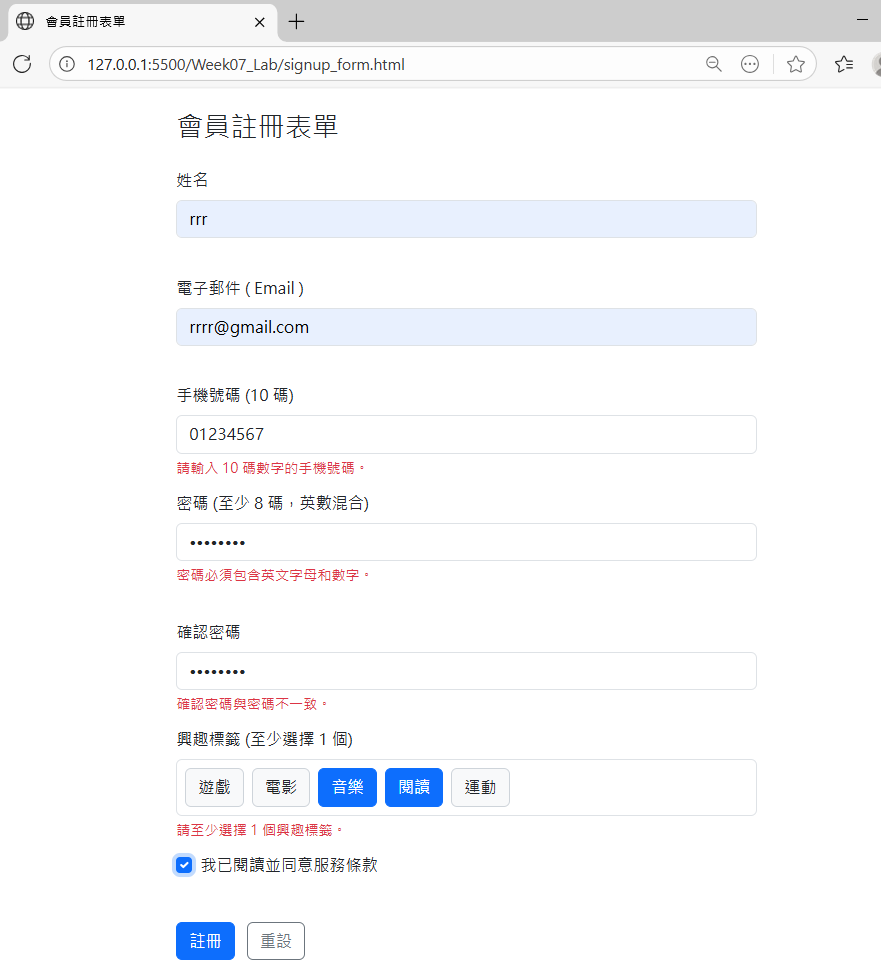
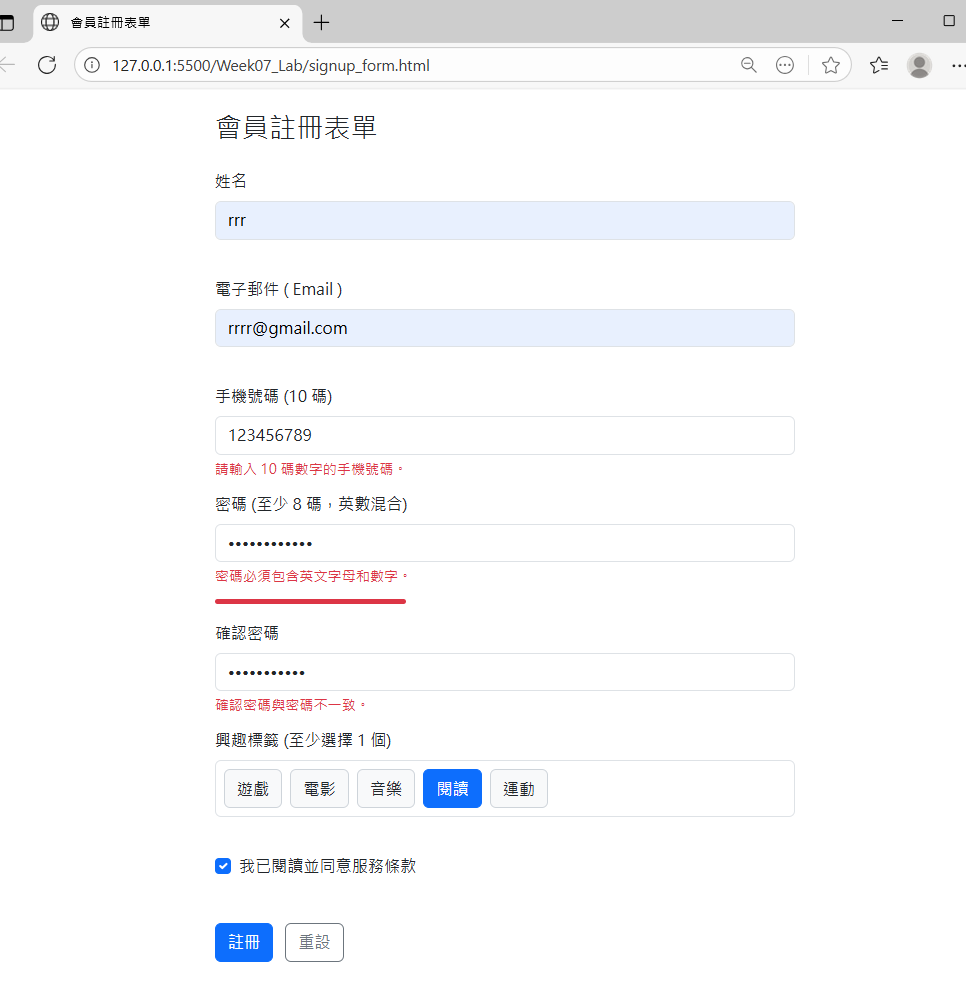
update week07-lab

diff --git a/Week07_Lab/signup_form.js b/Week07_Lab/signup_form.js
@@ -16,44 +16,45 @@ const passwordInput = document.getElementById('password');
 const confirmPasswordInput = document.getElementById('confirmPassword');
 const strengthBar = document.getElementById('password-strength');
 
-
-/* 檢查密碼強度 1:弱, 2:中, 3:強 */
+/* 檢查密碼強度 1:弱, 2:中(>= 8 且英數混合), 3:強(>= 12) */
 function checkPasswordStrength(password) {
-    let score = 0;
-    if (password.length >= 8) score++; 
-    if (/[a-z]/.test(password) && /[A-Z]/.test(password)) score++; // 大小寫混合
-    if (/\d/.test(password) && /[^A-Za-z0-9]/.test(password)) score++; // 數字和特殊符號
+    if (password.length === 0) {
+        return 0;
+    }
+    const hasLetters = /[a-zA-Z]/.test(password);
+    const hasDigits = /\d/.test(password);
 
-    // 滿足英數混合和長度條件，判斷為「中」或「強」
-    if (password.length >= 8 && (/[a-zA-Z]/.test(password) && /\d/.test(password))) {
-        if (password.length >= 12) score = 3; 
-        else score = 2;
-    } else if (password.length >= 8) {
-        score = 1;
-    } else {
-        score = 0;
+    if (password.length >= 8 && hasLetters && hasDigits) {
+        if (password.length >= 12) {
+            return 3;
+        }
+        return 2;
+    } 
+    if (password.length >= 8) {
+        return 1;
     }
 
-    return score;
+    return 0; // 其他情況（長度 < 8）
 }
 
 /* 更新密碼強度條的視覺效果 */
 function updateStrengthBar() {
     const password = passwordInput.value;
     const strength = checkPasswordStrength(password);
-    strengthBar.className = 'mt-1 small'; // 重置 class
+    strengthBar.classList.remove('strength-weak', 'strength-medium', 'strength-strong'); 
 
-    if (password.length === 0) {
+    if (strength > 0) {
+        if (strength === 1) {
+            strengthBar.classList.add('strength-weak');
+        } else if (strength === 2) {
+            strengthBar.classList.add('strength-medium');
+        } else if (strength === 3) {
+            strengthBar.classList.add('strength-strong');
+        }
+
+        strengthBar.style.width = ''; 
+    } else {
         strengthBar.style.width = '0%';
-        return;
-    }
-
-    if (strength === 1) {
-        strengthBar.classList.add('strength-weak');
-    } else if (strength === 2) {
-        strengthBar.classList.add('strength-medium');
-    } else if (strength === 3) {
-        strengthBar.classList.add('strength-strong');
     }
 }
 
@@ -160,22 +161,20 @@ form.addEventListener('submit', async (event) => {
     if (selectedTags === 0) {
         isFormValid = false;
         if (!firstInvalid) {
-            firstInvalid = tagsContainer; // 如果輸入欄位都沒錯，第一個錯誤就是標籤區塊
+            firstInvalid = tagsContainer; // 如果輸入欄位都沒錯，第一個錯誤就是標籤區塊，聚焦第一個錯誤
         }
     }
 
-    // 聚焦第一個錯誤
     if (firstInvalid) {
         firstInvalid.focus(); 
         return;
     }
 
-    // 成功送出流程：防重送 (Disabled/Loading) + 模擬延遲
+    // 成功送出流程：防重送 (Disabled/Loading) + 模擬延遲，顯示成功訊息並重置表單
     submitBtn.disabled = true;
     submitBtn.textContent = '註冊中...';
     await new Promise((resolve) => setTimeout(resolve, 1000));
-    
-    // 顯示成功訊息並重置表單
+
     alert('會員註冊成功！歡迎加入。');
     form.reset();
     submitBtn.disabled = false;

diff --git a/Week07_Lab/signup_form.html b/Week07_Lab/signup_form.html
@@ -35,7 +35,7 @@
         <input id="password" name="password" class="form-control" type="password" required 
                minlength="8" aria-describedby="password-error">
         <p id="password-error" class="error-message" aria-live="polite"></p>
-        <div id="password-strength" class="mt-1 small" style="height: 5px;"></div>
+        <div id="password-strength" class="mt-1 small"></div>
       </div>
 
       <div class="mb-3">

diff --git a/Week07_Lab/styles.css b/Week07_Lab/styles.css
@@ -26,6 +26,8 @@
 /* 密碼強度條 */
 #password-strength {
     border-radius: 0.25rem;
+    height: 5px; 
+    transition: width 0.3s ease; 
 }
 .strength-weak { background-color: var(--bs-danger); width: 33%; }
 .strength-medium { background-color: var(--bs-warning); width: 66%; }
